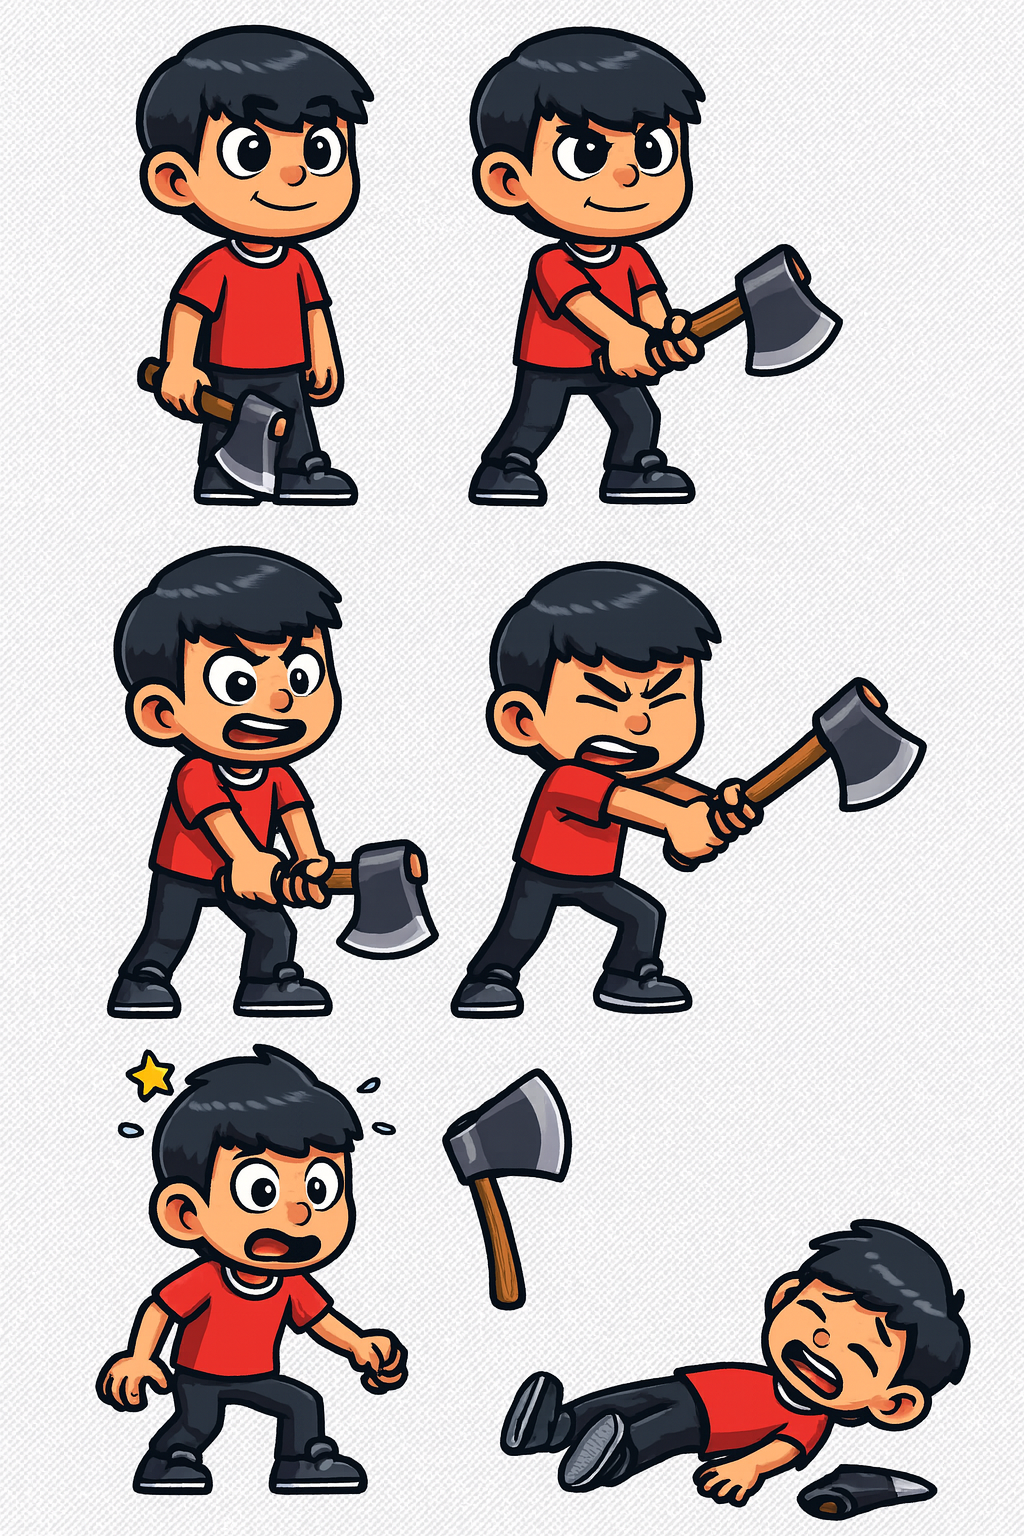
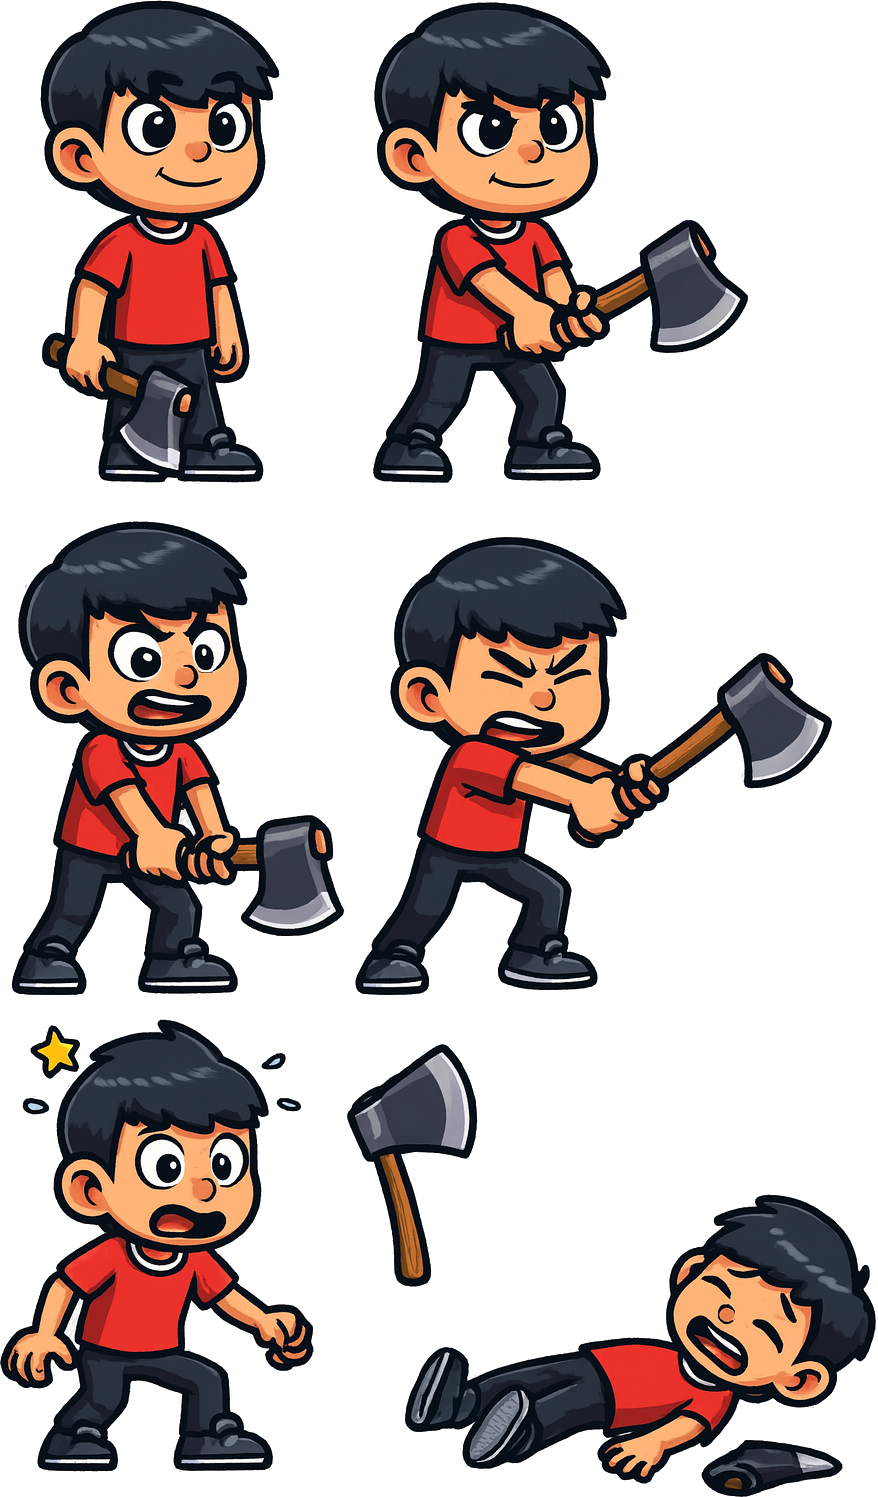
Added lumberjack3

diff --git a/src/characters/lumberjack3/config.ts b/src/characters/lumberjack3/config.ts
@@ -1,0 +1,75 @@
+import type { CharacterConfig, GameState } from '../types'
+
+// Lumberjack3 Sprite Constants
+export const LUMBERJACK3_SPRITE_PATH = '/images/lumberjack3.png'
+export const LUMBERJACK3_SHEET_WIDTH = 768 // 3 columns × 256px
+export const LUMBERJACK3_SHEET_HEIGHT = 768 // 3 rows × 256px  
+export const LUMBERJACK3_INDIVIDUAL_SIZE = 256
+export const LUMBERJACK3_PLAYER_HEIGHT = 173
+// Scale factor based on Y-direction only to maintain aspect ratio
+export const LUMBERJACK3_Y_SCALE_FACTOR = LUMBERJACK3_PLAYER_HEIGHT / LUMBERJACK3_INDIVIDUAL_SIZE
+// Width calculated to maintain aspect ratio
+export const LUMBERJACK3_PLAYER_WIDTH = Math.round(LUMBERJACK3_INDIVIDUAL_SIZE * LUMBERJACK3_Y_SCALE_FACTOR)
+export const LUMBERJACK3_DISPLAY_SIZE = LUMBERJACK3_PLAYER_WIDTH
+// Use uniform scale factor for background positioning (sprite sheet scaling)
+export const LUMBERJACK3_SCALE_FACTOR = LUMBERJACK3_Y_SCALE_FACTOR
+
+// Lumberjack3 Dimensions & Positioning
+export const LUMBERJACK3_CENTERING_OFFSET = (LUMBERJACK3_PLAYER_WIDTH - 90) / 2 // 90 is original PLAYER_WIDTH
+
+// Lumberjack3 sprite coordinates based on your provided table
+export const LUMBERJACK3_COORDS = {
+  idleFrame1: [30, 0, 280, 480],           // Pose 1: Idle Frame 1
+  idleFrame2: [370, 0, 750, 480],         // Pose 2: Idle Frame 2  
+  chopAnticipation: [0, 520, 350, 911],   // Pose 3: Chop (Anticip.)
+  chopImpact: [350, 520, 840, 1000],         // Pose 4: Chop (Impact)
+  hitStunned: [0, 1015, 320, 1470],       // Pose 5: Hit/Stunned
+  recovery: [0, 1, 0, 1],         // Pose 6: Recovery
+  knockedDown: [400, 760, 877, 1494]         // Pose 7: Knocked Down
+} as const
+
+// State mapping function
+function mapGameStateToLumberjack3Sprite(gameState: GameState): keyof typeof LUMBERJACK3_COORDS {
+  switch (gameState) {
+    case 'idle':
+      return 'idleFrame1'
+    case 'chopping':
+      return 'chopImpact'
+    case 'hit':
+      return 'hitStunned'
+    default:
+      return 'idleFrame1'
+  }
+}
+
+// Complete Lumberjack3 Configuration
+export const lumberjack3Config: CharacterConfig = {
+  id: 'lumberjack3',
+  name: 'Advanced Lumberjack',
+  spriteConfig: {
+    sheetPath: LUMBERJACK3_SPRITE_PATH,
+    dimensions: {
+      width: LUMBERJACK3_PLAYER_WIDTH,
+      height: LUMBERJACK3_PLAYER_HEIGHT,
+      displaySize: LUMBERJACK3_DISPLAY_SIZE
+    },
+    positioning: {
+      centeringOffset: LUMBERJACK3_CENTERING_OFFSET,
+      bottomOffset: 86, // From original PLAYER_BOTTOM_OFFSET
+      leftPosition: 90,  // From original PLAYER_LEFT_POSITION
+      rightPosition: 390 // From original PLAYER_RIGHT_POSITION
+    },
+    scaleFactor: LUMBERJACK3_SCALE_FACTOR,
+    coordinates: {
+      idleFrame1: [...LUMBERJACK3_COORDS.idleFrame1],
+      idleFrame2: [...LUMBERJACK3_COORDS.idleFrame2],
+      chopAnticipation: [...LUMBERJACK3_COORDS.chopAnticipation],
+      chopImpact: [...LUMBERJACK3_COORDS.chopImpact],
+      hitStunned: [...LUMBERJACK3_COORDS.hitStunned],
+      recovery: [...LUMBERJACK3_COORDS.recovery],
+      knockedDown: [...LUMBERJACK3_COORDS.knockedDown]
+    }
+  },
+  mapGameStateToSprite: mapGameStateToLumberjack3Sprite,
+  availableStates: ['idleFrame1', 'idleFrame2', 'chopAnticipation', 'chopImpact', 'hitStunned', 'recovery', 'knockedDown']
+}

diff --git a/src/utils/__tests__/characterSelection.test.ts b/src/utils/__tests__/characterSelection.test.ts
@@ -10,7 +10,7 @@ describe('characterSelection', () => {
   describe('getRandomCharacterType', () => {
     it('returns a valid character type', () => {
       const result = getRandomCharacterType()
-      expect(['lumberjack1', 'lumberjack2']).toContain(result)
+      expect(['lumberjack1', 'lumberjack2', 'lumberjack3']).toContain(result)
     })
 
     it('returns different characters on multiple calls (statistically)', () => {
@@ -20,9 +20,9 @@ describe('characterSelection', () => {
         results.add(getRandomCharacterType())
       }
       
-      // Should get at least one result, possibly both
+      // Should get at least one result, possibly all three
       expect(results.size).toBeGreaterThan(0)
-      expect(results.size).toBeLessThanOrEqual(2)
+      expect(results.size).toBeLessThanOrEqual(3)
     })
   })
 
@@ -33,6 +33,9 @@ describe('characterSelection', () => {
 
       const params2 = new URLSearchParams('?character=lumberjack2')
       expect(getCharacterFromUrl(params2)).toBe('lumberjack2')
+
+      const params3 = new URLSearchParams('?character=lumberjack3')
+      expect(getCharacterFromUrl(params3)).toBe('lumberjack3')
     })
 
     it('returns null for invalid character type', () => {
@@ -60,13 +63,13 @@ describe('characterSelection', () => {
     it('returns random character when URL parameter is invalid', () => {
       const params = new URLSearchParams('?character=invalid')
       const result = selectCharacterType(params)
-      expect(['lumberjack1', 'lumberjack2']).toContain(result)
+      expect(['lumberjack1', 'lumberjack2', 'lumberjack3']).toContain(result)
     })
 
     it('returns random character when no URL parameter exists', () => {
       const params = new URLSearchParams('')
       const result = selectCharacterType(params)
-      expect(['lumberjack1', 'lumberjack2']).toContain(result)
+      expect(['lumberjack1', 'lumberjack2', 'lumberjack3']).toContain(result)
     })
   })
 
@@ -84,7 +87,7 @@ describe('characterSelection', () => {
       })
 
       const result = selectCharacterTypeFromCurrentUrl()
-      expect(['lumberjack1', 'lumberjack2']).toContain(result)
+      expect(['lumberjack1', 'lumberjack2', 'lumberjack3']).toContain(result)
     })
 
     it('uses window location when available', () => {
@@ -117,7 +120,7 @@ describe('characterSelection', () => {
       })
 
       const result = selectCharacterTypeFromCurrentUrl()
-      expect(['lumberjack1', 'lumberjack2']).toContain(result)
+      expect(['lumberjack1', 'lumberjack2', 'lumberjack3']).toContain(result)
     })
   })
 })

diff --git a/src/characters/index.ts b/src/characters/index.ts
@@ -1,11 +1,13 @@
 import type { CharacterType, CharacterConfig } from './types'
 import { lumberjack1Config } from './lumberjack1/config'
 import { lumberjack2Config } from './lumberjack2/config'
+import { lumberjack3Config } from './lumberjack3/config'
 
 // Character Registry
 const characterRegistry: Record<CharacterType, CharacterConfig> = {
   lumberjack1: lumberjack1Config,
-  lumberjack2: lumberjack2Config
+  lumberjack2: lumberjack2Config,
+  lumberjack3: lumberjack3Config
 }
 
 // Character Selection Functions
@@ -31,4 +33,4 @@ export function isValidCharacterType(type: string): type is CharacterType {
 
 // Re-export types and configs for convenience
 export type { CharacterType, CharacterConfig, GameState } from './types'
-export { lumberjack1Config, lumberjack2Config }
+export { lumberjack1Config, lumberjack2Config, lumberjack3Config }

diff --git a/src/characters/types.ts b/src/characters/types.ts
@@ -1,4 +1,4 @@
-export type CharacterType = 'lumberjack1' | 'lumberjack2'
+export type CharacterType = 'lumberjack1' | 'lumberjack2' | 'lumberjack3'
 
 export type GameState = 'idle' | 'chopping' | 'hit'
 

diff --git a/README.md b/README.md
@@ -151,6 +151,21 @@ The project uses modern ESM-only configuration and requires Node.js with ES2022 
 - **Auto-Return**: Game over screen automatically returns to attract after 5 seconds
 - **Responsive Design**: Works on desktop and mobile devices
 
+### Character Selection
+
+Choose your lumberjack sprite using the `character` query parameter:
+
+- **Lumberjack 1** (default): `?character=lumberjack1`
+- **Lumberjack 2**: `?character=lumberjack2`
+
+Examples:
+```
+http://localhost:5173/?character=lumberjack1
+http://localhost:5173/?character=lumberjack2
+```
+
+If no character is specified or an invalid character is provided, a random character will be selected.
+
 ## Known Issues
 
 - 4/5 Playwright E2E tests currently fail due to timing/deterministic issues
